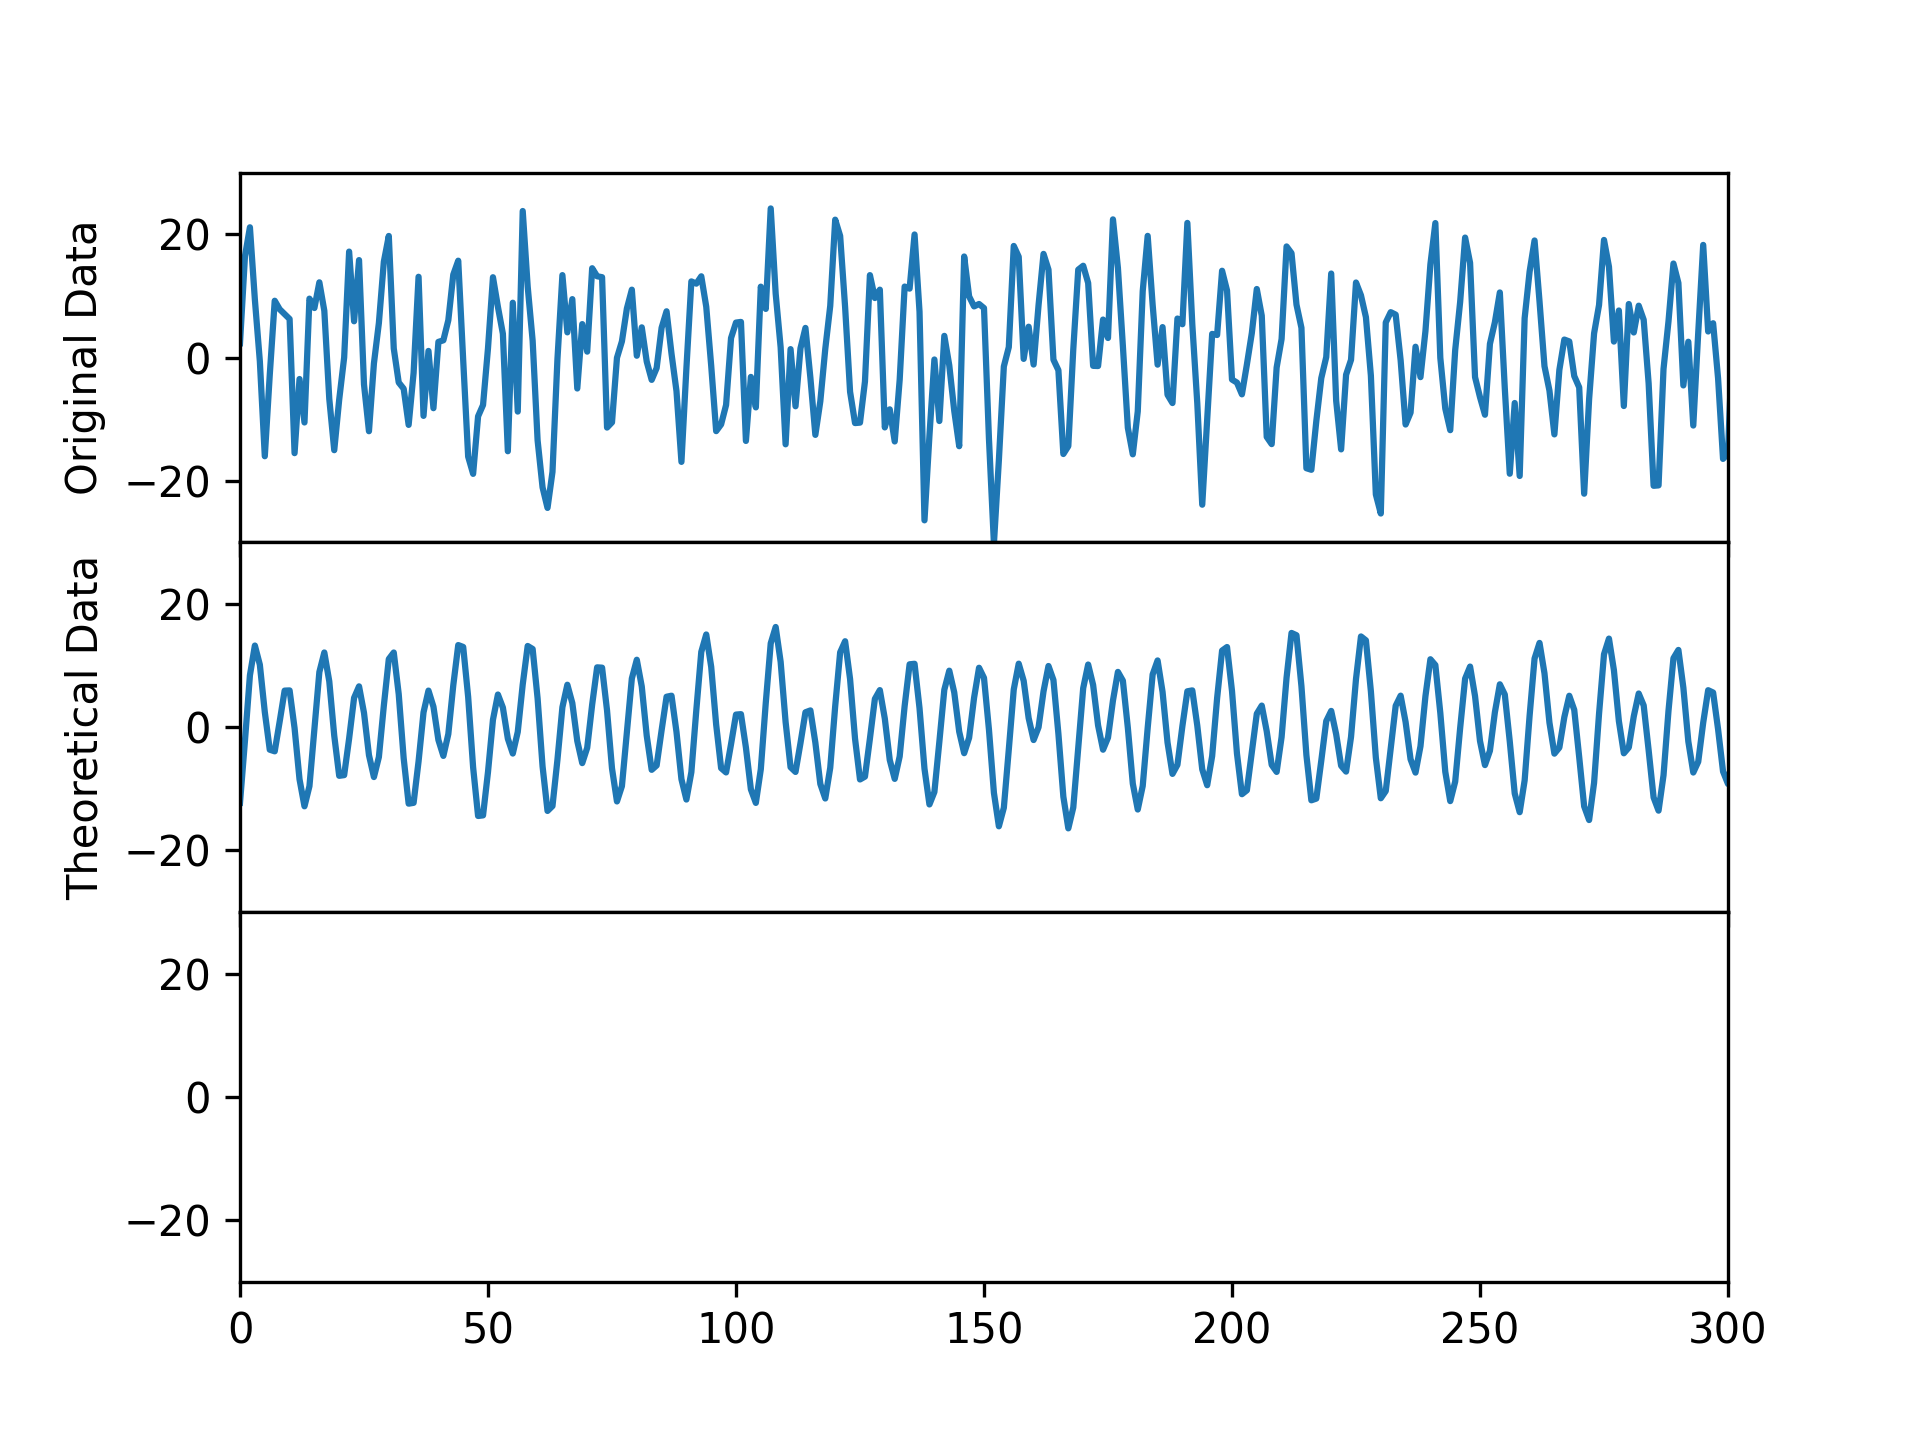
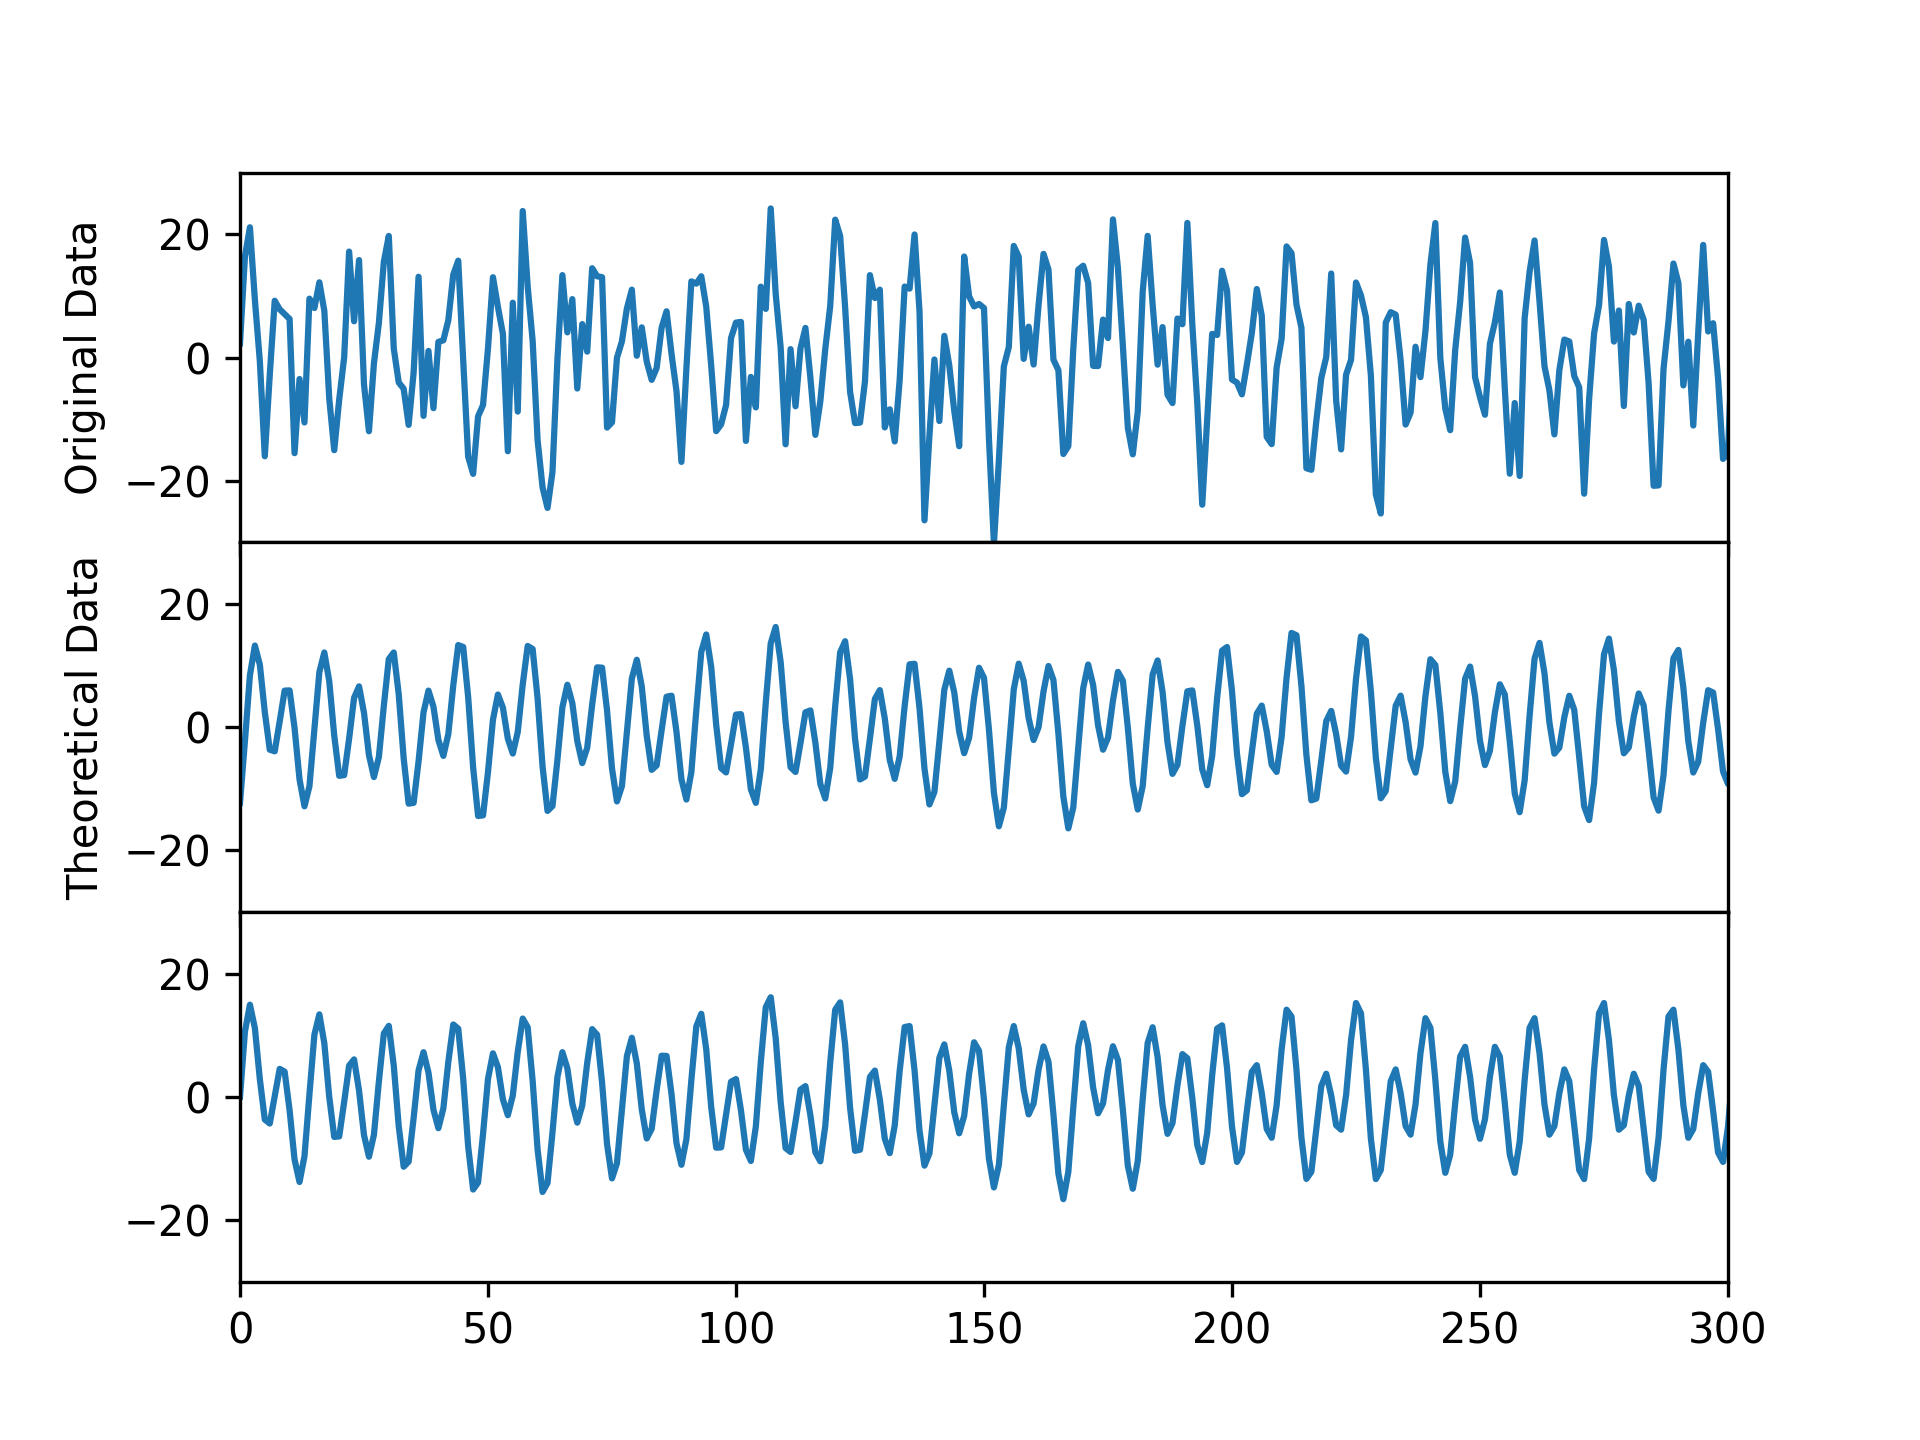
update

Changed region(s): [[0.125, 0.6875, 0.9062, 0.8438]]

diff --git a/Computational Project- Fast Fourier Transforms (FFT)/pickle-example-v2.py b/Computational Project- Fast Fourier Transforms (FFT)/pickle-example-v2.py
@@ -125,6 +125,7 @@ fig, (ax1,ax2,ax3)=plt.subplots(3,1,sharex='col')
 ax1.plot(np.abs(data_fft))
 ax2.plot(filter_function)
 ax3.plot(np.abs(z_filtered))
+
 """
 note that in general, the fft is a complex function, hence we plot
 the absolute value of it. in our case, the fft is real, but the
@@ -135,20 +136,15 @@ if we plotted (abs(fft))**2, that would be called the power spectra
 """
 
 fig.subplots_adjust(hspace=0)
-ax1.set_ylim(0,5000)
+ax1.set_ylim(0,13000)
 ax2.set_ylim(0,1.2)
-ax3.set_ylim(0,5000)
+ax3.set_ylim(0,13000)
 ax1.set_ylabel('Noisy FFT')
 ax2.set_ylabel('Filter Function')
 ax3.set_ylabel('Filtered FFT')
 ax3.set_xlabel('Absolute value of FFT of Position-Time\n(Amplitude-Frequency)')
 
 plt.tight_layout()
-""" 
-the \n in our xlabel does not save to file well without the
-tight_layout() command
-"""
-
 if(save): plt.savefig('section3_FilteringProcess.png',dpi=mydpi)
 plt.show()
 
@@ -163,31 +159,31 @@ to eliminate most of the noise, then took the inverse fft
 to get our "cleaned" version of the original data
 """
 
-a1=3
-a2=2.13630664134*a1
-a3=4.04633408282*a1
+
+n1 = len(data_fft)
+delta = 1
+freq1 = fftfreq(n1, delta)      # Calculate frequencies of the transform in Hz
 
 # calculating Theoretical graph
-A1=int(a3)   # wave amplitude
-T1=int(1/286)  # wave period
+A1=2/N * np.abs(data_fft[286])   # wave amplitude
+T1=1/freq1[286]  # wave period
 y1=A1*np.sin(2.*np.pi*time/T1)
 
-A2=int(a2)
-T2=int(1/154)
+A2=2/N * np.abs(data_fft[154])
+T2=1/freq1[154]
 y2=A2*np.sin(2.*np.pi*time/T2)
 
-A3=int(a1)
-T3=int(1/118)
+A3=2/N * np.abs(data_fft[118])
+T3=1/freq1[118]
 y3=A3*np.sin(2.*np.pi*time/T3)
 
 z = y1+y2+y3
-z_fft=np.fft.fft(z)
 
 # ploting
 fig, (ax1,ax2,ax3)=plt.subplots(3,1,sharex='col',sharey='col')
 ax1.plot(time,data)
 ax2.plot(time,np.real(cleaned))
-ax3.plot(time,abs(z_fft))
+ax3.plot(time,z)
 """ 
 we plot the real part of our cleaned data - but since the 
 original data was real, the result of our tinkering should 

diff --git a/Computational Project- Fast Fourier Transforms (FFT)/exericse 1_v2.py b/Computational Project- Fast Fourier Transforms (FFT)/exericse 1_v2.py
@@ -30,8 +30,18 @@ z = y1 + y2     # combiniation of sine wave 1 and 2
 
 z1=abs(np.fft.fft(x))
 z2=abs(np.fft.fft(y))
-z3=abs(np.fft.fft(z))       # z3 peak at 10, 15
+z3=abs(np.fft.fft(z))       # z3 peak at 10, 15 (checked manually)
 # take the Fast Fourier Transforms of both x and y
+
+# print("w1: max frequency is ", np.argmax(abs(z3[:100])))
+# print("w2: max frequency is ", np.argmax(abs(z3[10:100])))
+# a = max(abs(z3[10:100]))
+# for i in range(len(z3[11:100])):
+#     if a == (abs(z3[11:100]))[i]:
+#         print(a)
+#         print(i+10)
+# print(z3[15])
+
 """
 FFT It converts a signal into individual spectral components and 
 thereby provides frequency information about the signal.
